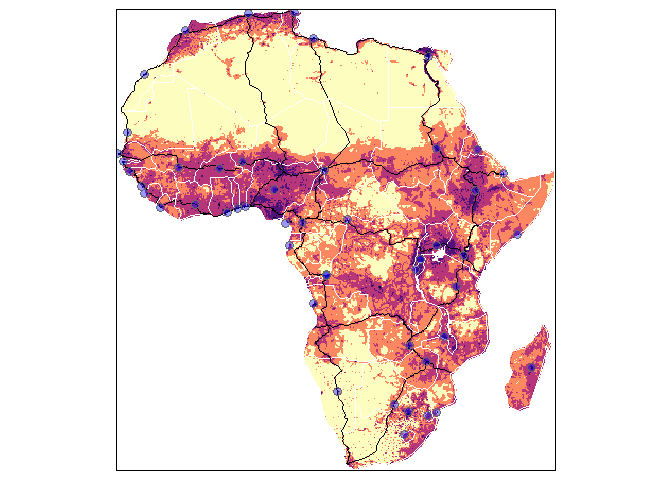
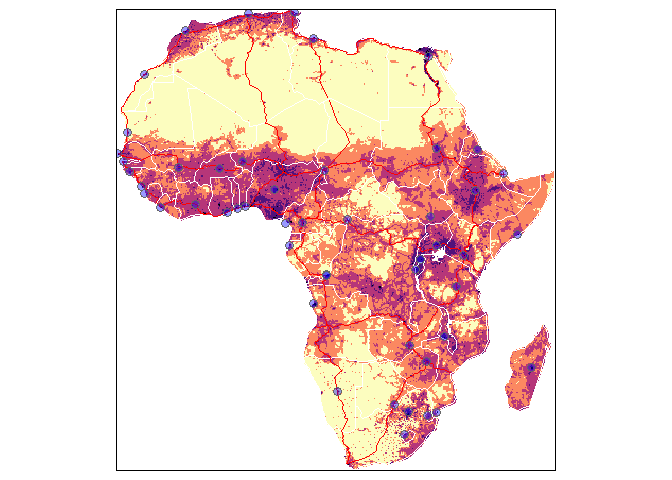
make highways red

diff --git a/README.md b/README.md
@@ -141,7 +141,7 @@ tm_shape(afripop2020) +
 tm_shape(africountries) +
     tm_borders("white", lwd = .5) +
 tm_shape(afrihighway) +
-    tm_lines(col = "black") + 
+    tm_lines(col = "red") + 
 tm_shape(africapitals) +
     tm_symbols(col = "blue", alpha=0.4, scale = .6 )+
 tm_legend(show = FALSE)
